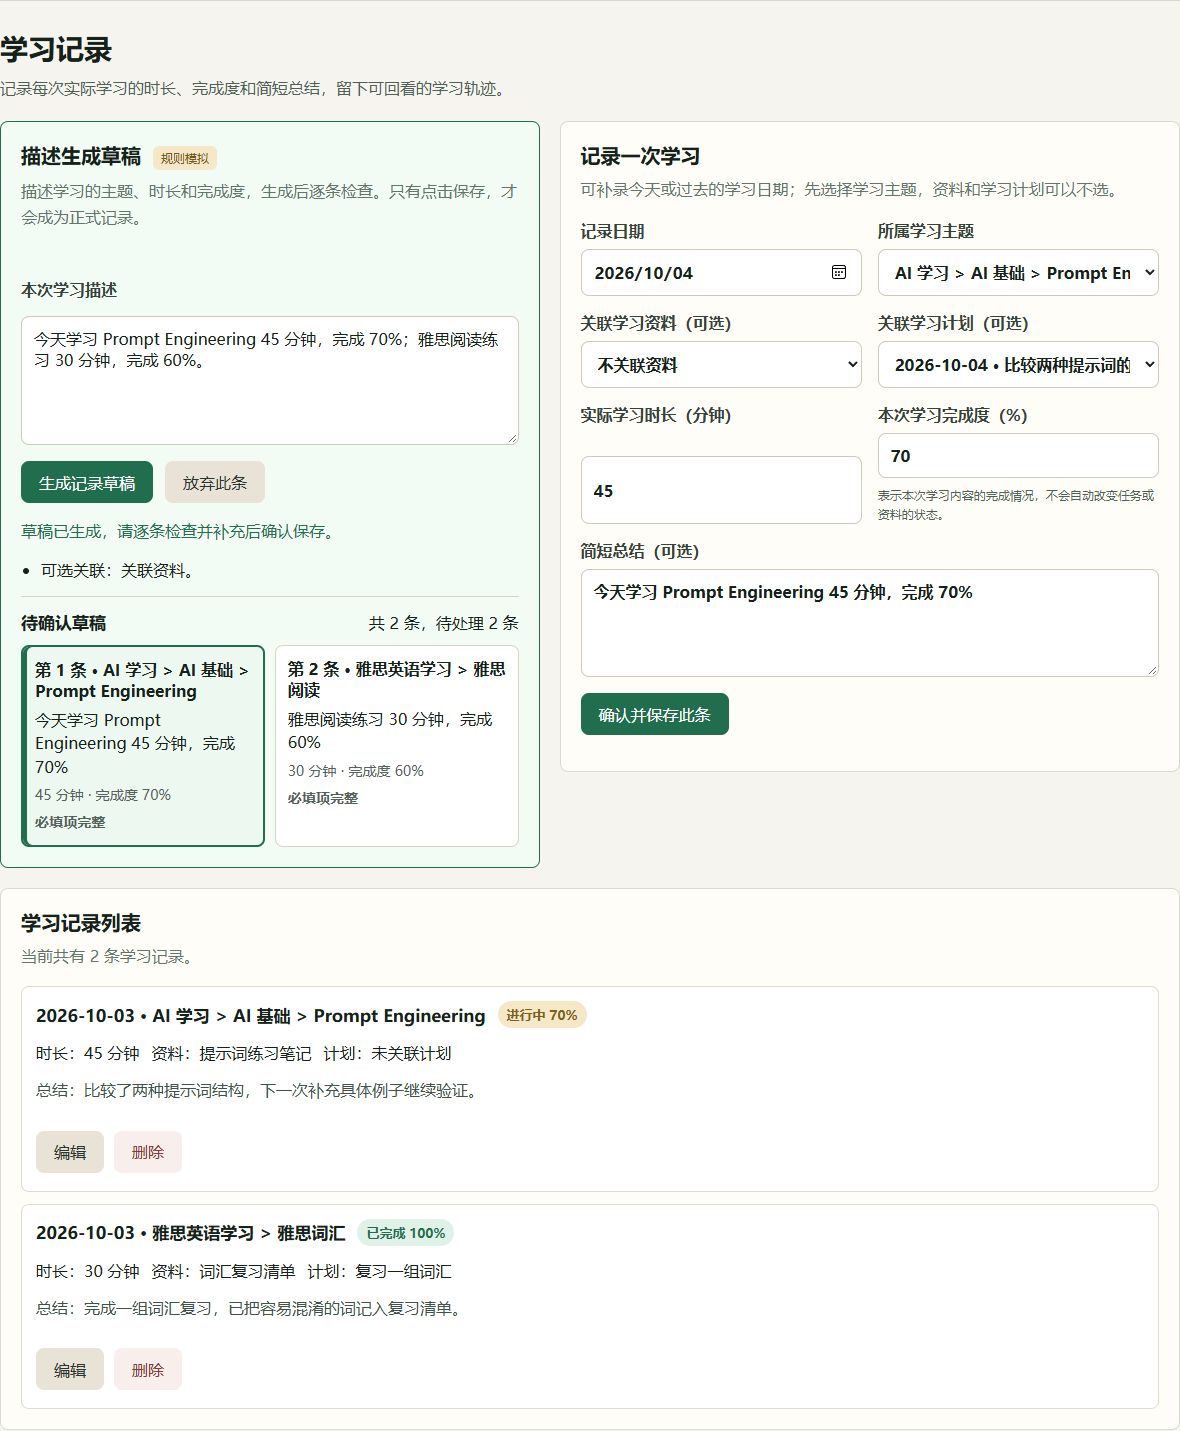
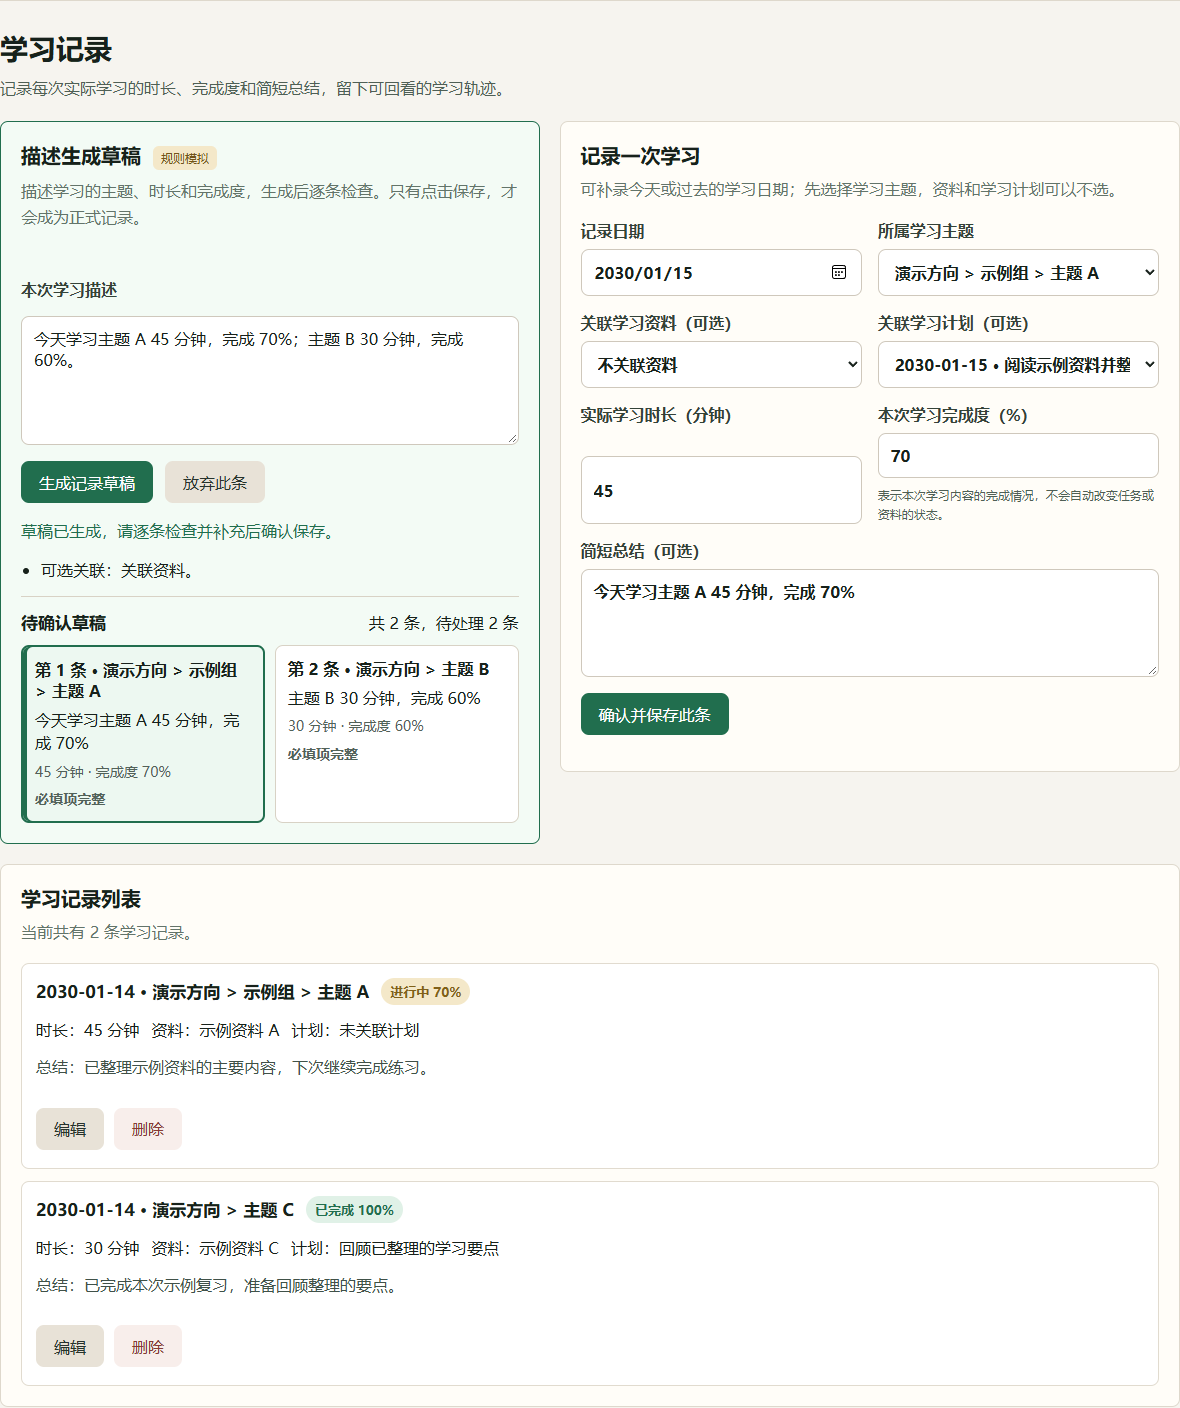
docs: update public showcase screenshots and README

diff --git a/docs/project-status.md b/docs/project-status.md
@@ -12,6 +12,18 @@
 
 最近一次业务回归证据：2026-10-04 公开发布前只读审计中，全量 120/120 自动测试通过，0 失败、0 跳过。本次后续文档整理不修改代码或功能，不重新运行或改写这些业务测试结果。
 
+## 2026-10-04：公开展示截图策略调整
+
+- README 只保留首页工作台、AI 辅助记录草稿确认流程两张核心界面截图。
+- 在独立临时浏览器中使用“演示方向”“主题 A／B／C”和通用资料、任务、总结重新拍摄真实界面；不使用作者的浏览器数据。
+- 截图浏览器日期固定模拟为 2030-01-15，相关历史日期、时长与完成度均为虚构展示数据；README 在图片前明确说明并非作者个人记录。
+- 截图用数据只存在于临时浏览器中，产品代码、默认 Demo、数据结构、存储键及功能保持原样。实际体验说明继续对应原有 Demo。
+- 保留首页现有的项目起点说明，明确其与截图中的学习内容无关。
+
+本阶段核对了截图可见内容及演示数据关联；实际生成两条对应主题的草稿，确认生成前后本地保存内容一致。截图拍摄后，在同一临时环境中逐条保存，验证概览由 75 分钟、2 条记录变为 150 分钟、4 条记录，计划状态保持不变，页面无 JavaScript 错误。本次未重新运行全量业务测试。
+
+后续更新公开截图时继续使用独立临时浏览器、通用虚构数据和固定模拟日期；不要直接以默认 Demo 的截图覆盖 README 展示图。本阶段只更新图片与说明文档，未执行 Git 提交、推送或公开发布。
+
 ## 2026-10-04：公开阅读文档整理
 
 - 入门说明从开发准备指引改为产品用途、现有能力、体验步骤、数据边界与文档导航。

diff --git a/README.md b/README.md
@@ -10,15 +10,17 @@
 
 ## 界面预览
 
-首页工作台：简短介绍、已有学习概览和今日任务。
+以下两张截图使用独立临时浏览器中的**通用虚构演示数据，并非作者个人学习记录**。主题、资料和任务均为示例；浏览器日期固定模拟为 **2030-01-15**，其中的日期、时长与完成度仅用于展示流程，不代表真实学习成果。
 
-![Personal Learning System 首页，展示虚构示例的 75 分钟与 2 条学习记录](docs/images/showcase-home.png)
+首页工作台：产品介绍、学习概览、通用示例任务与计划录入。
 
-描述生成草稿：识别多个学习主题，逐条检查后再保存。
+![Personal Learning System 首页工作台，使用通用虚构主题与固定模拟日期](docs/images/showcase-home.png)
 
-![Personal Learning System 中通过本地规则生成的两条待确认学习草稿](docs/images/showcase-drafts.png)
+AI 辅助记录草稿确认流程：当前通过本地规则识别“主题 A／B”，生成两条待确认草稿，逐条检查后再保存。
 
-截图使用独立测试环境中的虚构示例数据。截图日期仅代表拍摄时的示例日期。
+![Personal Learning System AI辅助记录草稿确认流程，展示两条通用虚构学习草稿，当前采用本地规则模拟](docs/images/showcase-drafts.png)
+
+截图数据仅用于公开展示。产品首次打开时仍提供原有完整 Demo；下面的“三分钟体验”示例对应实际 Demo，而非截图中的主题名称。首页关于 AI 学习与雅思备考的文字说明项目起点，不是截图中的学习记录。
 
 ## 为什么做这个项目
 
